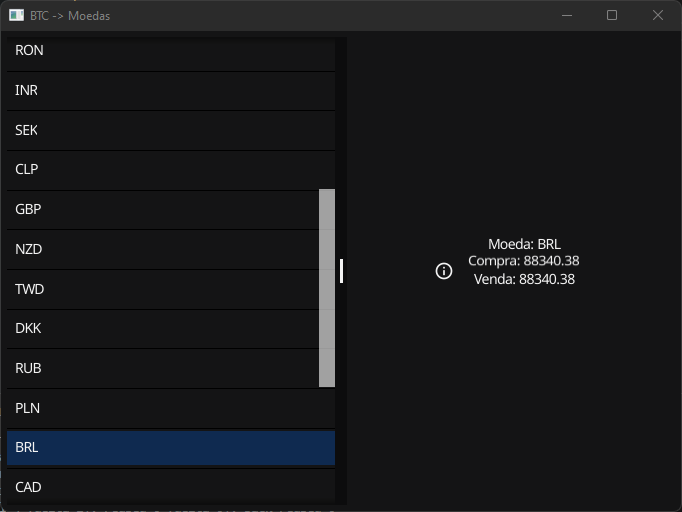
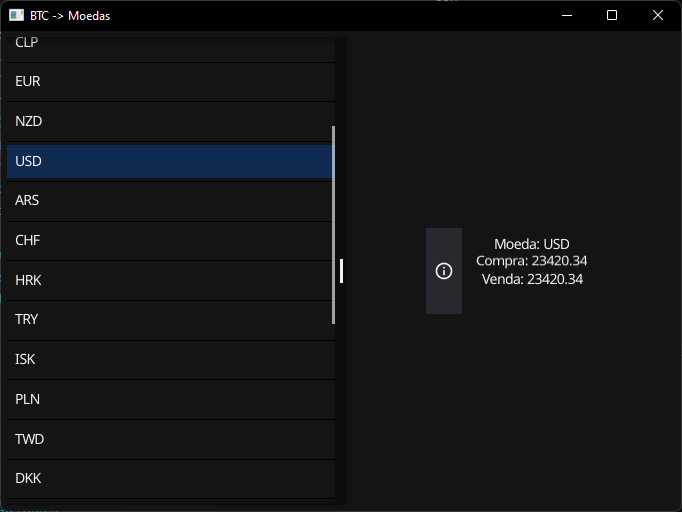
adicionado a opção der conversão de moeda específica

diff --git a/gui/app.go b/gui/app.go
@@ -18,7 +18,9 @@ type Coin struct {
 
 // var data = []string{"a", "string", "list"}
 
-func App(data []Coin) {
+var coin = ""
+
+func App(data []Coin, converter func(string, string) float64) {
 	myApp := app.New()
 	myWindow := myApp.NewWindow("BTC -> Moedas")
 
@@ -27,8 +29,22 @@ func App(data []Coin) {
 	label := widget.NewLabel("Selecione uma moeda.")
 
 	label.Alignment = fyne.TextAlignCenter
-	icon := widget.NewIcon(nil)
-	hbox := container.NewHBox(icon, label)
+	input_value := widget.NewEntry()
+	input_value.SetPlaceHolder("Valor")
+	label_result := widget.NewLabel("Resultado")
+	new_window := container.NewGridWithRows(3, input_value, label_result, widget.NewButton("Converter", func() {
+		label_result.SetText(fmt.Sprintf("%f", converter(coin, input_value.Text)))
+	}))
+	//icon := widget.NewIcon(nil)
+	button := widget.NewButtonWithIcon("", nil, func() {
+		w := fyne.CurrentApp().NewWindow("Info")
+		w.Resize(fyne.NewSize(380, 280))
+		w.SetTitle(fmt.Sprintf("BTC -> %v", coin))
+		w.SetContent(new_window)
+		w.Show()
+	})
+	button.Hidden = true
+	hbox := container.NewHBox(button, label)
 
 	list := widget.NewList(
 		func() int {
@@ -45,11 +61,17 @@ func App(data []Coin) {
 
 	list.OnSelected = func(id widget.ListItemID) {
 		label.SetText(fmt.Sprintf("Moeda: %v\nCompra: %v\nVenda: %v\n", data[id].Symbol, data[id].Buy, data[id].Sell))
-		icon.SetResource(theme.InfoIcon())
+		//icon.SetResource(theme.InfoIcon())
+		button.Hidden = false
+		button.SetIcon(theme.InfoIcon())
+		coin = data[id].Symbol
 	}
 	list.OnUnselected = func(id widget.ListItemID) {
 		label.SetText("Selecione uma moeda.")
-		icon.SetResource(nil)
+		//icon.SetResource(nil)
+		button.SetIcon(nil)
+		button.Hidden = true
+		coin = ""
 	}
 
 	listView := container.NewHSplit(list, container.NewCenter(hbox))

diff --git a/main.go b/main.go
@@ -3,12 +3,14 @@ package main
 import (
 	"bitcoin/gui"
 	"encoding/json"
+	"fmt"
 	"io/ioutil"
 	"log"
 	"net/http"
 )
 
 func main() {
+
 	res, err := http.Get("https://blockchain.info/ticker")
 
 	if err != nil {
@@ -32,5 +34,27 @@ func main() {
 		resArray = append(resArray, coin)
 	}
 
-	gui.App(resArray)
+	gui.App(resArray, converter)
+}
+
+func converter(currency string, value string) float64 {
+	url := fmt.Sprintf("https://blockchain.info/tobtc?currency=%v&value=%v", currency, value)
+
+	res, err := http.Get(url)
+
+	if err != nil {
+		log.Fatal(err.Error())
+	}
+
+	resData, err := ioutil.ReadAll(res.Body)
+
+	if err != nil {
+		log.Fatal(err.Error())
+	}
+
+	var resObj float64
+
+	json.Unmarshal(resData, &resObj)
+
+	return resObj
 }

diff --git a/README.md b/README.md
@@ -2,3 +2,4 @@
 Uma aplicação gráfica que consome uma API de preços de mercado do BTC com Golang.
 ## Exemplo
 ![alt text](screenshot.png)
+![alt text](screenshot2.png)
